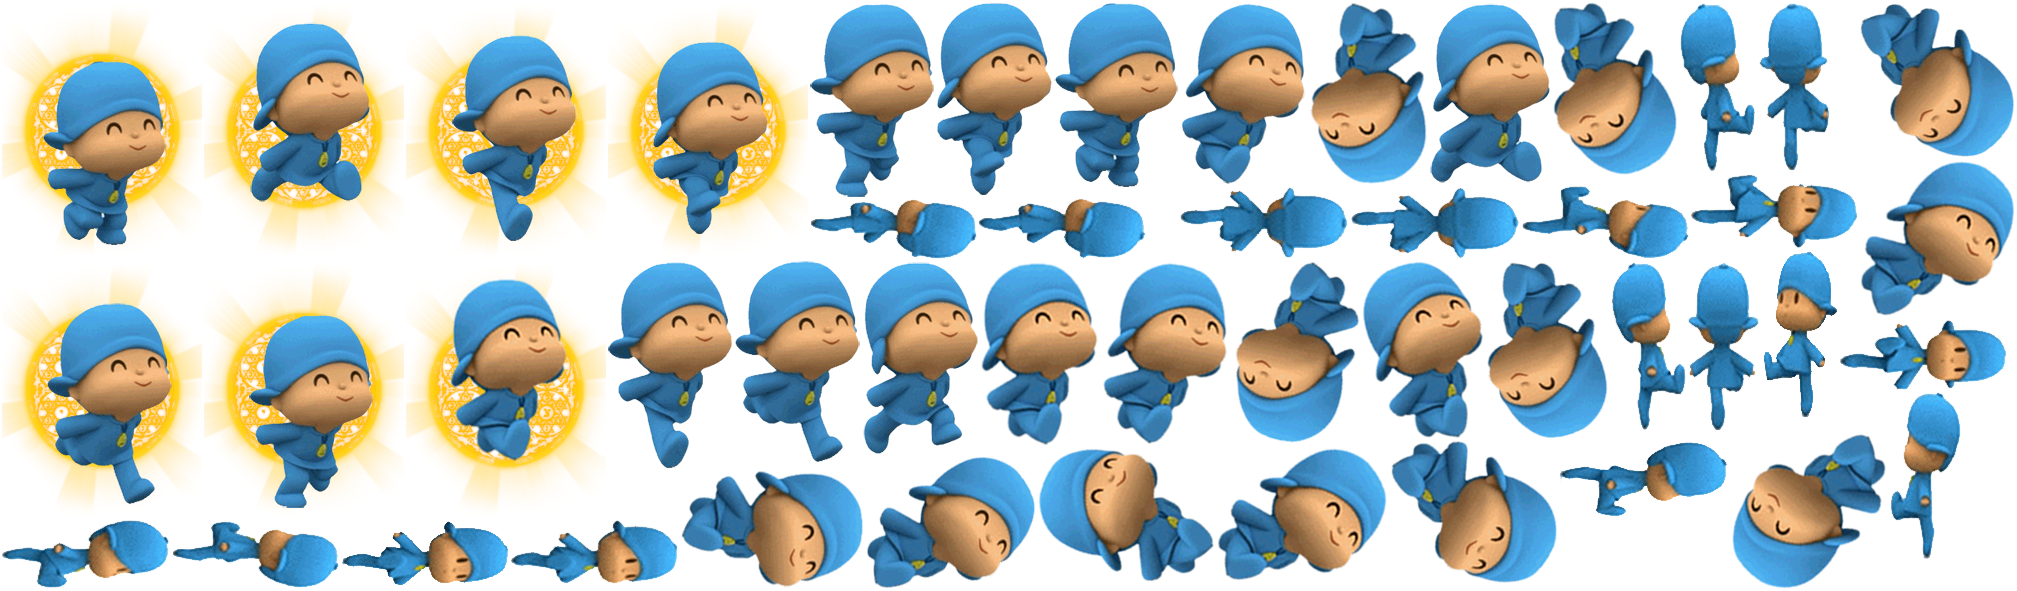
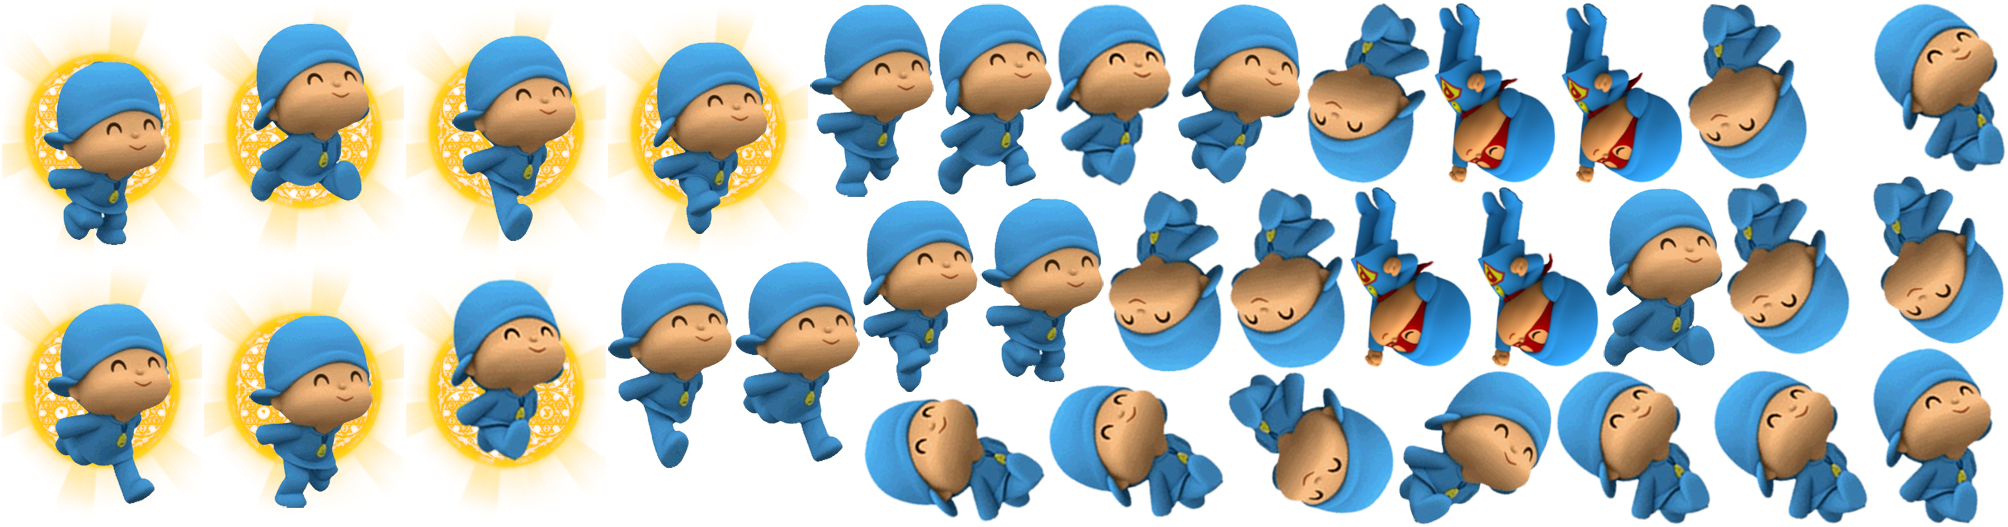
no message

diff --git a/src/gameScene.js b/src/gameScene.js
@@ -12,6 +12,8 @@ var gameLayer = cc.LayerColor.extend({
     jumpDownAction:null,
     flyAction:null,
     rollAction:null,
+    wudiAction:null,
+
     animFramesCoin:null,
     groundArray : null,
     rockArray : null,
@@ -73,13 +75,13 @@ var gameLayer = cc.LayerColor.extend({
         this.jumpDownAction.release();
         this.rollAction.release();
         this.flyAction.release();
-
+        this.wudiAction.release();
 
         this._super();
     },
 
     update : function(){
-        if(this.player.playerState == 'run')
+        if(this.player.playerState == 'run'||this.player.playerState == 'wudi')
         {
             if(this.player.velocity > 0)
             {
@@ -139,6 +141,20 @@ var gameLayer = cc.LayerColor.extend({
             this.player.runAction(this.jumpDownAction);
             this.player.playerState = 'jumpDown';
         }
+        //wudiAction
+        if(this.wudiLabel == true && this.player.playerState != 'wudi')
+        {
+            this.player.stopAllActions();
+            this.player.runAction(this.wudiAction);
+            this.player.playerState = 'wudi';
+            cc.log('xx');
+        }
+        if(this.wudiLabel == false && this.player.playerState == 'wudi')
+        {
+            this.player.stopAllActions();
+            this.player.runAction(this.runningAction);
+            this.player.playerState = 'run';
+        }
     },
 
     initPlayer : function(){
@@ -186,14 +202,24 @@ var gameLayer = cc.LayerColor.extend({
         this.rollAction.retain();
 
         animFrames = [];
-        for (var i = 1; i < 20; i++) {
-            var str = "fly" + i + ".png";
+        for (var i = 1; i < 5; i++) {
+            var str = "playerFly" + i + ".png";
             var frame = cc.SpriteFrameCache.getInstance().getSpriteFrame(str);
             animFrames.push(frame);
         }
-        animation = cc.Animation.create(animFrames, 0.02);
+        animation = cc.Animation.create(animFrames, 0.2);
         this.flyAction = cc.RepeatForever.create(cc.Animate.create(animation));
         this.flyAction.retain();
+
+        animFrames = [];
+        for (var i = 1; i < 9; i++) {
+            var str = "wudi" + i + ".png";
+            var frame = cc.SpriteFrameCache.getInstance().getSpriteFrame(str);
+            animFrames.push(frame);
+        }
+        animation = cc.Animation.create(animFrames, 0.05);
+        this.wudiAction = cc.RepeatForever.create(cc.Animate.create(animation));
+        this.wudiAction.retain();
 
 
         this.player = new player(300, 300, 'p1.png');
